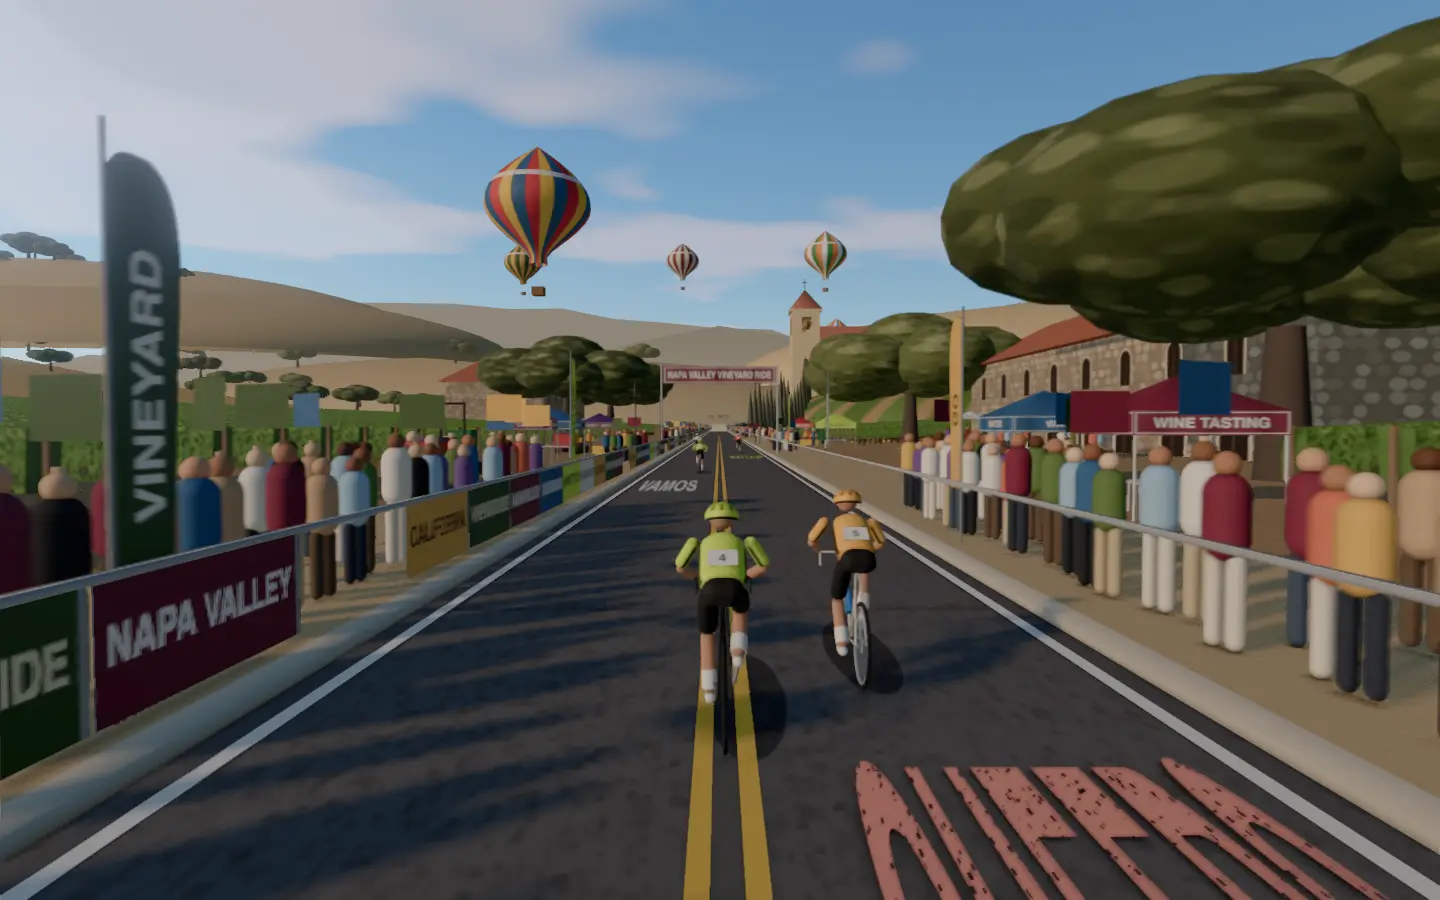
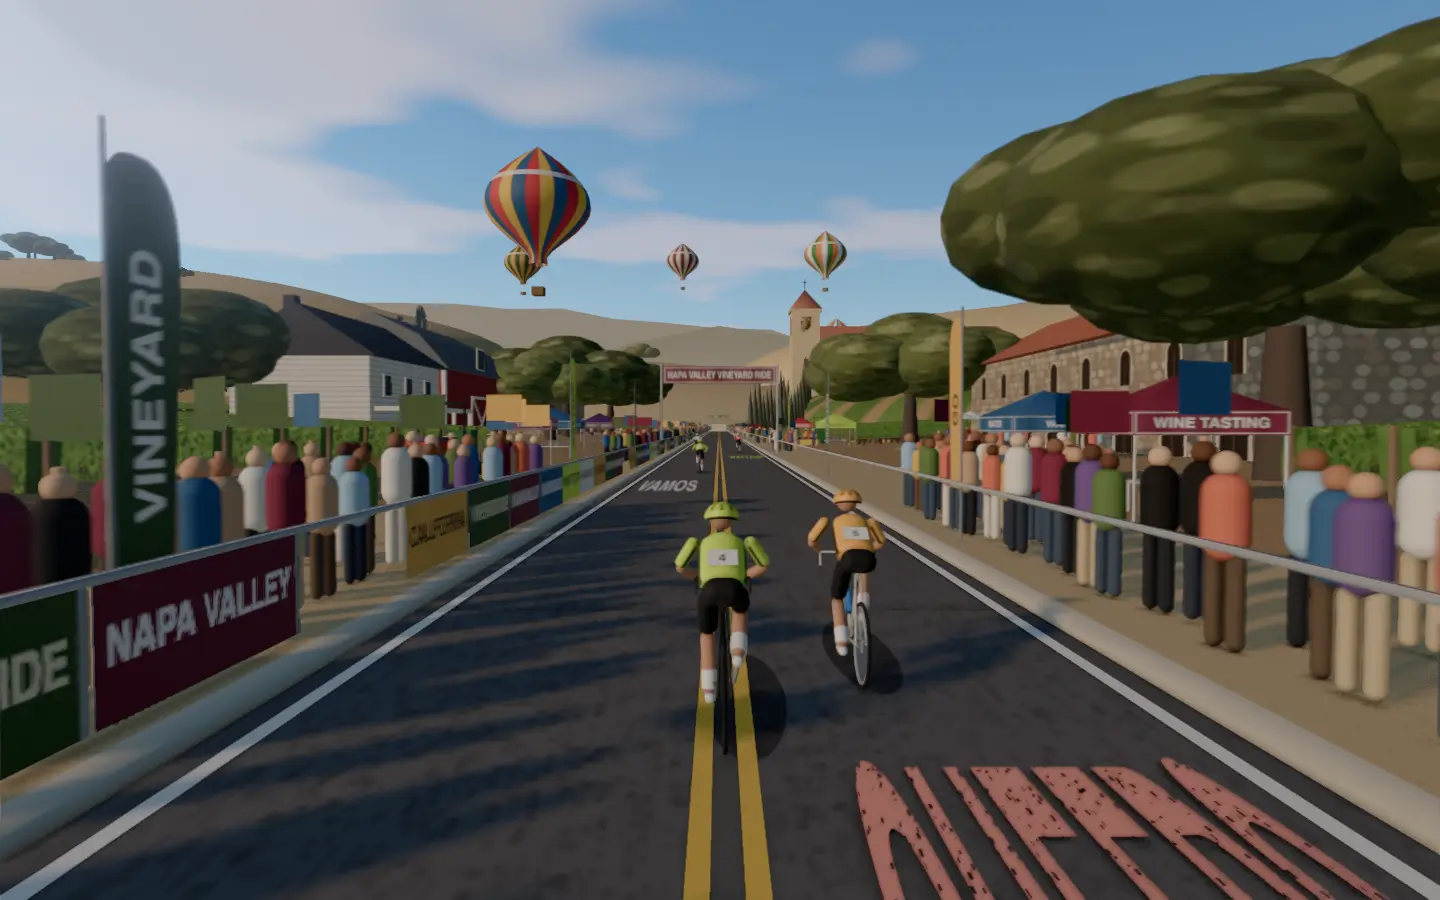
Build a Napa farmstead: red barn, clapboard farmhouse and windmill

diff --git a/frontend/projects/wattzup/src/app/core/world-napa.ts b/frontend/projects/wattzup/src/app/core/world-napa.ts
@@ -162,7 +162,6 @@ const ROAD_PAINT_EVERY = 25;
 const CREWS: readonly (readonly [-1 | 1, number, number])[] = [
   [-1, 125, 12.5],
   [1, 175, 12.5],
-  [-1, 150, 13],
   [1, 200, 13],
   [-1, 325, 12.5],
   [1, 375, 13],
@@ -173,6 +172,10 @@ const PICKERS: Wardrobe = {
   bottoms: ['#2a3140', '#3b4a5c', '#5a4a3a', '#20242b'],
   skins: SKINS,
 };
+
+/** The farmstead on the left: how far into the loop and how far off the road's centre. */
+const FARM = 165;
+const FARM_X = -27;
 
 const WINERIES: readonly (readonly [number, -1 | 1, number, boolean])[] = [
   [140, 1, 27, false],
@@ -269,6 +272,7 @@ export class NapaStreet implements SceneStreet {
     this.prepareOaks();
     this.addVines();
     this.addWineries();
+    this.addFarmstead();
     this.addOaks();
     this.addHarvest();
     this.addPeople();
@@ -436,7 +440,9 @@ export class NapaStreet implements SceneStreet {
       for (const g of [...hedges, ...stems, ...posts]) g.dispose();
       this.disposables.push(hedge, stem, ends);
       for (let offset = 0; offset < LOOP; offset += BLOCK) {
-        const winery = WINERIES.some(([at, s]) => s === side && Math.abs(offset - at) < 20);
+        const winery =
+          WINERIES.some(([at, s]) => s === side && Math.abs(offset - at) < 20) ||
+          (side < 0 && Math.abs(offset - FARM) < 20);
         if (winery) continue;
         const block = new Group();
         const h = new Mesh(hedge, leaves);
@@ -508,6 +514,177 @@ export class NapaStreet implements SceneStreet {
         this.props.push({ mesh: tree, offset, every: LOOP, x, rise: rise(x), near: side > 0 });
       }
     }
+  }
+
+  /**
+   * The farmstead on the left: a red barn under a grey metal gambrel roof, its board walls
+   * trimmed in white, a sliding door crossed in white and a hay-loft door over it; a white
+   * clapboard farmhouse under a dark gable with a deep porch on posts; a lattice farm windmill
+   * with its fan and tail vane; a water tank on stilts; and oaks round them.
+   */
+  private addFarmstead(): void {
+    const g = new Group();
+    const boards = this.material({ map: this.track(barnTexture()), roughness: 0.95 });
+    boards.map!.wrapS = RepeatWrapping;
+    boards.map!.wrapT = RepeatWrapping;
+    const clapboard = this.material({ map: this.track(clapboardTexture()), roughness: 0.9 });
+    clapboard.map!.wrapS = RepeatWrapping;
+    clapboard.map!.wrapT = RepeatWrapping;
+    const metal = this.material({ color: 0x6e7276, roughness: 0.5, metalness: 0.5 });
+    const slate = this.material({ color: 0x3a3c40, roughness: 0.8 });
+    const white = this.material({ color: 0xf2efe6, roughness: 0.8 });
+    const glass = this.material({ color: 0x26323a, roughness: 0.3 });
+    const steel = this.material({ color: 0x9aa0a6, roughness: 0.5, metalness: 0.6 });
+    const box = (
+      m: MeshStandardMaterial,
+      w: number,
+      h: number,
+      d: number,
+      x: number,
+      y: number,
+      z: number,
+    ) => {
+      const mesh = new Mesh(this.unit, m);
+      mesh.scale.set(w, h, d);
+      mesh.position.set(x, y, z);
+      mesh.castShadow = true;
+      mesh.receiveShadow = true;
+      g.add(mesh);
+      return mesh;
+    };
+    const walls = (
+      w: number,
+      h: number,
+      d: number,
+      m: MeshStandardMaterial,
+      x: number,
+      z: number,
+    ) => {
+      const wall = new BoxGeometry(w, h, d);
+      for (const f of [0, 1]) scaleFaceUv(wall, f, d / 4, h / 4);
+      for (const f of [4, 5]) scaleFaceUv(wall, f, w / 4, h / 4);
+      wall.translate(x, h / 2, z);
+      this.disposables.push(wall);
+      const mesh = new Mesh(wall, m);
+      mesh.castShadow = true;
+      mesh.receiveShadow = true;
+      g.add(mesh);
+    };
+    // The barn, its long side to the road, and its gambrel roof.
+    const barnW = 11;
+    const barnL = 18;
+    const barnH = 6.5;
+    walls(barnW, barnH, barnL, boards, 0, 0);
+    const gambrel = new Shape();
+    const half = barnW / 2 + 0.5;
+    gambrel.moveTo(-half, 0);
+    gambrel.lineTo(half, 0);
+    gambrel.lineTo(half * 0.62, 2.6);
+    gambrel.lineTo(0, 4.4);
+    gambrel.lineTo(-half * 0.62, 2.6);
+    gambrel.closePath();
+    const roof = new ExtrudeGeometry(gambrel, { depth: barnL + 1, bevelEnabled: false });
+    roof.translate(0, barnH, -(barnL + 1) / 2);
+    this.disposables.push(roof);
+    const r = new Mesh(roof, metal);
+    r.castShadow = true;
+    g.add(r);
+    // Its gable ends in red boards too, trimmed white.
+    const end = new ExtrudeGeometry(gambrel, { depth: barnL - 0.2, bevelEnabled: false });
+    end.scale(0.92, 0.92, 1);
+    end.translate(0, barnH, -(barnL - 0.2) / 2);
+    this.disposables.push(end);
+    g.add(new Mesh(end, boards));
+    // The face to the road: a sliding door crossed in white, a hay-loft door, corner trim.
+    const face = barnW / 2 + 0.06;
+    box(white, 0.1, 4.6, 5.2, face, 2.3, 0);
+    box(boards, 0.12, 4.3, 4.9, face + 0.02, 2.2, 0);
+    for (const sign of [1, -1]) {
+      const brace = box(white, 0.06, 6.4, 0.22, face + 0.1, 2.2, 0);
+      brace.rotation.x = sign * Math.atan(4.9 / 4.3);
+    }
+    box(white, 0.1, 2, 2.2, face, barnH + 1.4, 0);
+    box(glass, 0.12, 1.7, 1.9, face + 0.02, barnH + 1.4, 0);
+    for (const z of [-barnL / 2, barnL / 2]) box(white, 0.3, barnH, 0.3, face - 0.1, barnH / 2, z);
+    // The farmhouse, nearer the road, its porch facing it.
+    const hx = 3;
+    const hz = barnL / 2 + 11;
+    walls(8, 6, 11, clapboard, hx, hz);
+    const gable = new Shape();
+    gable.moveTo(-4.6, 0);
+    gable.lineTo(4.6, 0);
+    gable.lineTo(0, 3);
+    gable.closePath();
+    const house = new ExtrudeGeometry(gable, { depth: 12, bevelEnabled: false });
+    house.translate(hx, 6, hz - 6);
+    this.disposables.push(house);
+    g.add(new Mesh(house, slate));
+    box(white, 2.6, 0.25, 10, hx + 4 + 1.3, 3, hz);
+    box(white, 2.6, 0.3, 10, hx + 4 + 1.3, 0.15, hz);
+    for (const z of [-4.8, -1.6, 1.6, 4.8]) box(white, 0.18, 2.8, 0.18, hx + 6.4, 1.5, hz + z);
+    for (const z of [-3.2, 0, 3.2]) {
+      box(white, 0.08, 1.6, 1.2, hx + 4.04, 1.5, hz + z);
+      box(glass, 0.1, 1.4, 1.0, hx + 4.06, 1.5, hz + z);
+      box(white, 0.08, 1.4, 1.1, hx + 4.04, 4.4, hz + z);
+      box(glass, 0.1, 1.2, 0.9, hx + 4.06, 4.4, hz + z);
+    }
+    box(slate, 0.7, 1.8, 0.7, hx - 2, 9, hz + 2.5);
+    // The windmill behind the barn: four legs leaning in to a platform, its fan and tail vane.
+    const wx = -6;
+    const wz = -barnL / 2 - 6;
+    const tall = 13;
+    for (const [lx, lz] of [
+      [-1.4, -1.4],
+      [1.4, -1.4],
+      [-1.4, 1.4],
+      [1.4, 1.4],
+    ] as const) {
+      const leg = box(steel, 0.12, tall + 0.3, 0.12, wx + lx / 2, tall / 2, wz + lz / 2);
+      leg.rotation.z = -lx * 0.05;
+      leg.rotation.x = lz * 0.05;
+    }
+    for (let y = 2; y < tall; y += 3) box(steel, 2.8 - y * 0.16, 0.06, 0.06, wx, y, wz);
+    const fan = new Group();
+    for (let k = 0; k < 18; k++) {
+      const blade = new Mesh(this.unit, steel);
+      blade.scale.set(0.05, 1.5, 0.35);
+      blade.position.y = 0.95;
+      const arm = new Group();
+      arm.add(blade);
+      arm.rotation.x = (k / 18) * Math.PI * 2;
+      fan.add(arm);
+    }
+    fan.position.set(wx + 0.6, tall + 0.4, wz);
+    g.add(fan);
+    box(steel, 0.05, 1.1, 1.6, wx - 1.7, tall + 0.4, wz);
+    box(steel, 2.2, 0.08, 0.08, wx - 0.6, tall + 0.4, wz);
+    // The water tank on its stilts beside the barn.
+    const tank = new CylinderGeometry(1.6, 1.6, 3.2, 18);
+    this.disposables.push(tank);
+    const t = new Mesh(tank, steel);
+    t.position.set(-3, 5.6, barnL / 2 + 3);
+    t.castShadow = true;
+    g.add(t);
+    for (const [lx, lz] of [
+      [-1, -1],
+      [1, -1],
+      [-1, 1],
+      [1, 1],
+    ] as const) {
+      box(steel, 0.12, 4, 0.12, -3 + lx * 1.1, 2, barnL / 2 + 3 + lz * 1.1);
+    }
+    // Oaks round the farmstead.
+    for (const [ox, oz, size] of [
+      [-12, 6, 17],
+      [9, -barnL / 2 - 4, 15],
+      [-4, hz + 9, 14],
+    ] as const) {
+      const tree = this.oak(size, Math.round(ox * 3 + oz));
+      tree.position.set(ox, 0, oz);
+      g.add(tree);
+    }
+    this.group.add(g);
+    this.props.push({ mesh: g, offset: FARM, every: LOOP, x: FARM_X, rise: 0 });
   }
 
   /**
@@ -1349,6 +1526,28 @@ function grapeTexture(): CanvasTexture {
       g.arc(random() * 64, random() * 64, 2 + random() * 2, 0, Math.PI * 2);
       g.fill();
     }
+  });
+}
+
+/** A barn's red vertical boards, weathered, with dark gaps between them. */
+function barnTexture(): CanvasTexture {
+  return canvasTexture(128, 128, (g) => {
+    speckle(g, 128, 128, '#9a2a22', 1801);
+    for (let x = 0; x < 128; x += 16) {
+      g.fillStyle = 'rgba(40,10,8,0.55)';
+      g.fillRect(x, 0, 2, 128);
+      g.fillStyle = 'rgba(255,190,170,0.08)';
+      g.fillRect(x + 3, 0, 5, 128);
+    }
+  });
+}
+
+/** A farmhouse's white clapboard, a shadow line under each board. */
+function clapboardTexture(): CanvasTexture {
+  return canvasTexture(128, 128, (g) => {
+    speckle(g, 128, 128, '#f0ece2', 1811);
+    g.fillStyle = 'rgba(90,80,70,0.3)';
+    for (let y = 0; y < 128; y += 10) g.fillRect(0, y, 128, 2);
   });
 }
 

diff --git a/docs/class-worlds.md b/docs/class-worlds.md
@@ -31,7 +31,7 @@ Every class in `frontend/public/classes.json`, with its World Ride scene. Render
 | 25 | 15 Minute HIIT Cardio | Serpentine, Hyde Park | 80% | Rowing boats and white swans glide on the Serpentine as the lakeside road runs west through Hyde Park past the boathouse and the striped deckchairs under the plane trees toward the five stone arches of the Serpentine Bridge. The two-minute warm-up rolls past the boathouse, the three-minute tempo blocks sweep along the lake under the planes, and each thirty-second sprint races for the bridge's arches. |
 | 26 | Quick HIIT Workout | Notting Hill Carnival | 72% | Sound systems throbbing on Ladbroke Grove; push through costumed mas bands on carnival Monday. |
 | 27 | Instant Inferno | Kīlauea Lava Road (concept) |  | Hawaiian lava fields and glowing steam vents; each effort climbs toward the crater rim. |
-| 28 | Easy Riding | Napa Vineyards | 78% | Rows of vines climb the golden hills either side of the valley road on a warm Californian afternoon, past oak-shaded stone wineries and their tasting terraces toward a mission-style winery with a bell tower on a knoll ahead. The three-minute warm-up rolls between the vine rows, the short vineyard rises climb past the stone wineries under the oaks, and the two-minute pushes ride on toward the bell tower. |
+| 28 | Easy Riding | Napa Vineyards | 80% | Rows of vines climb the golden hills either side of the valley road on a warm Californian afternoon, past oak-shaded stone wineries and their tasting terraces toward a mission-style winery with a bell tower on a knoll ahead. The three-minute warm-up rolls between the vine rows, the short vineyard rises climb past the stone wineries under the oaks, and the two-minute pushes ride on toward the bell tower. |
 | 29 | Quick HIIT Sprint Workout | Las Vegas Strip | 70% | Neon casinos and dancing fountains after midnight; sprint from light to light down the boulevard. |
 | 30 | Super High Cadence Sprints | Shibuya Crossing (concept) |  | Tokyo in neon rain; spin fast through the scramble beneath towering video screens. |
 | 31 | Elevate Your Climbing Power | Alpe d'Huez (concept) |  | Twenty-one hairpins above the valley, painted names on the tarmac and fans at every bend. |

diff --git a/docs/detailed-designs/world-ride/draw-class-scene/README.md b/docs/detailed-designs/world-ride/draw-class-scene/README.md
@@ -316,6 +316,7 @@ None.
   - dusty shoulders out to 8 m and a headland track 4 m wide along the rows' ends, then on both sides blocks of trellised vine rows running out from the road every 2.5 m and climbing the valley's side at 1 in 20 to 108 m: a hedge of leaves with dark grape clusters on its cordon over a line of gnarled trunks, a post at the road end, warm soil and straw between the rows;
   - beyond the vines the golden hills, climbing steeply, dotted with valley oaks singly and in clumps, their crowns broad, flat and olive;
   - three stone wineries beside the road, the first 45 m ahead on the right in the opening view: a long fieldstone hall under a terracotta gable, arched doors and windows on its face to the road, a flagstone tasting terrace in front with tables under white umbrellas, spreading oaks either end and, at two of them, oak barrels stacked by the door; their vine blocks are left out;
+  - a farmstead on the left 70 m ahead, in place of its vine block: a red barn of white-trimmed boards under a grey metal gambrel roof, a sliding door crossed in white and a hay-loft door to the road; a white clapboard farmhouse nearer the road under a dark gable with a chimney, a deep porch on posts and two storeys of windows; a lattice farm windmill behind the barn with its eighteen-bladed fan and tail vane; a water tank on stilts; and oaks round them;
   - the shared crowd in knots along the barriers with open stretches between them, so the vine rows show, and gaps in front of each winery's terrace and each harvest crew;
   - the harvest: crews of pickers in straw sun hats (the kit's `Figures`) stooping and straightening in the gaps between the rows with yellow lug boxes of grapes at their feet, two more carrying full lugs along the headland, a narrow green vineyard tractor on the headland hauling a red gondola heaped with dark grapes, and full lugs stacked at the row ends;
   - guests standing in twos and threes round the terrace tables (the kit's `Figures`);
